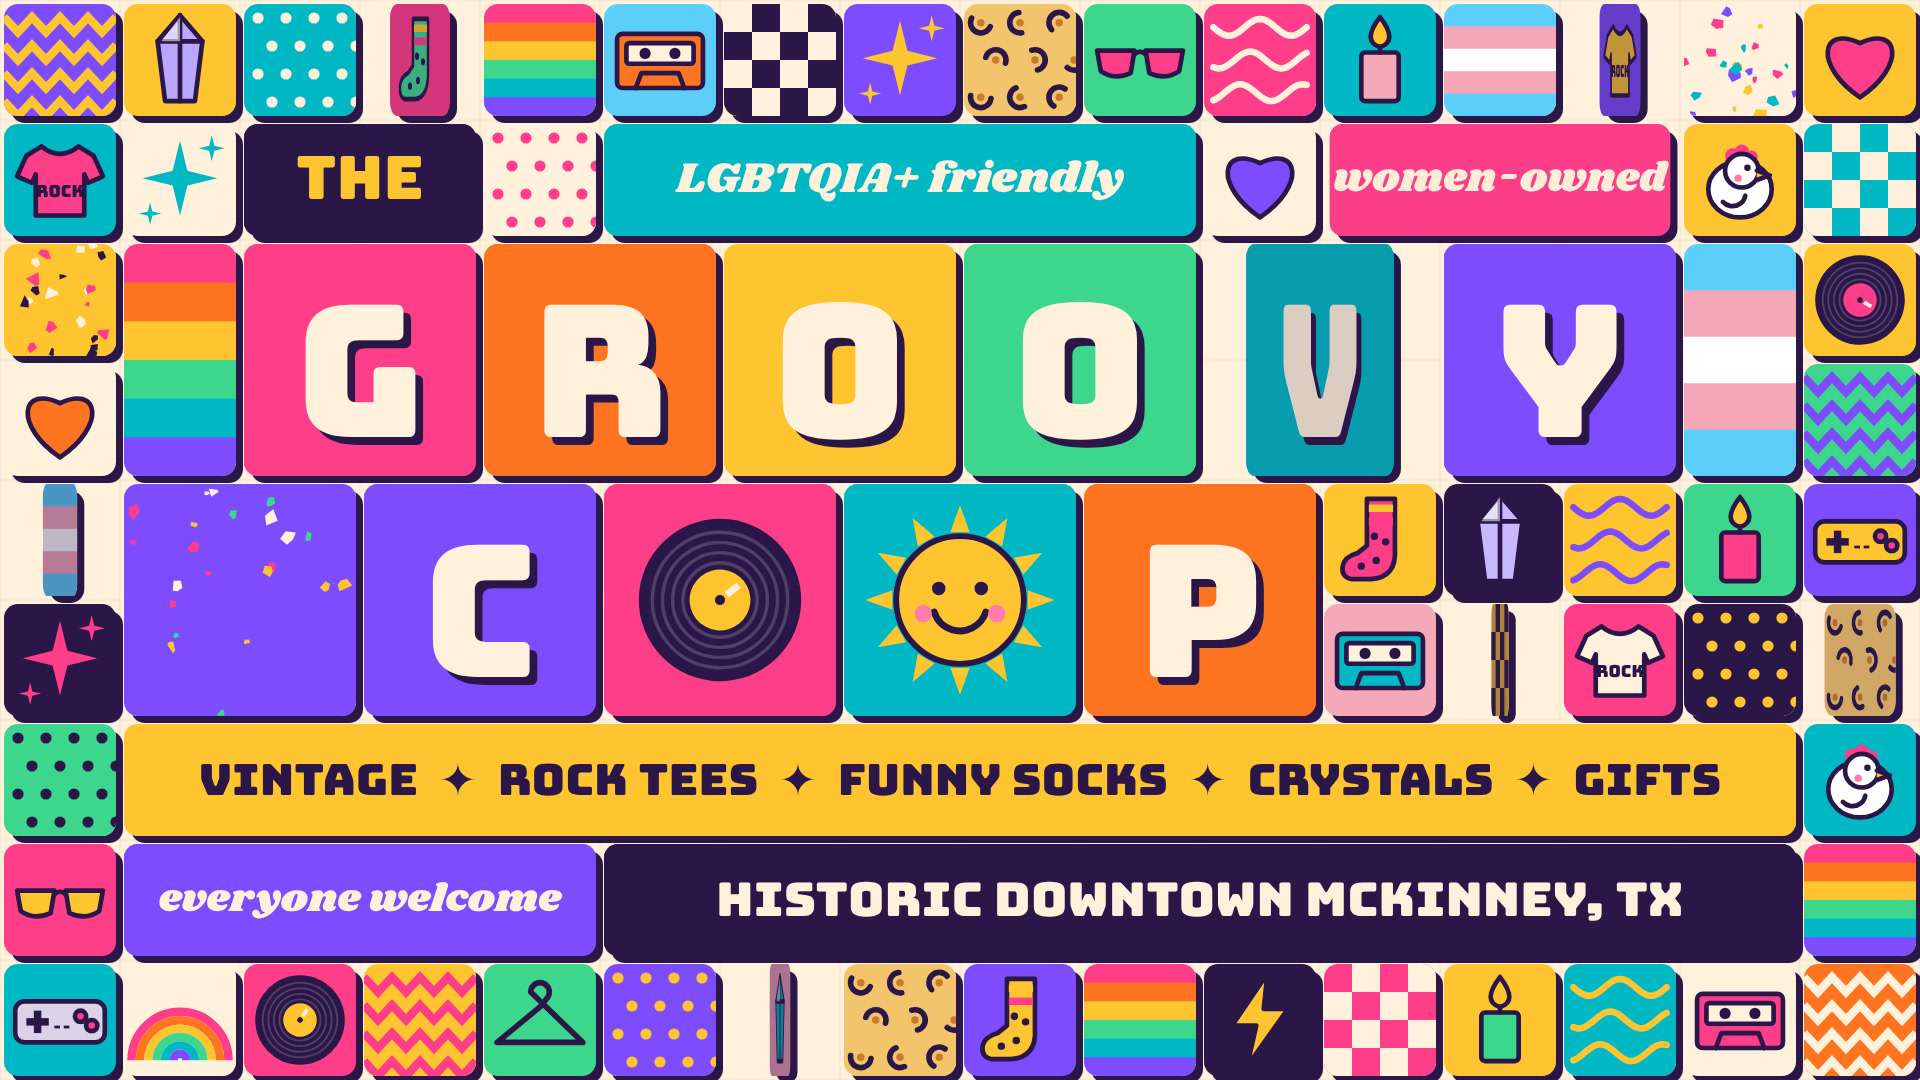
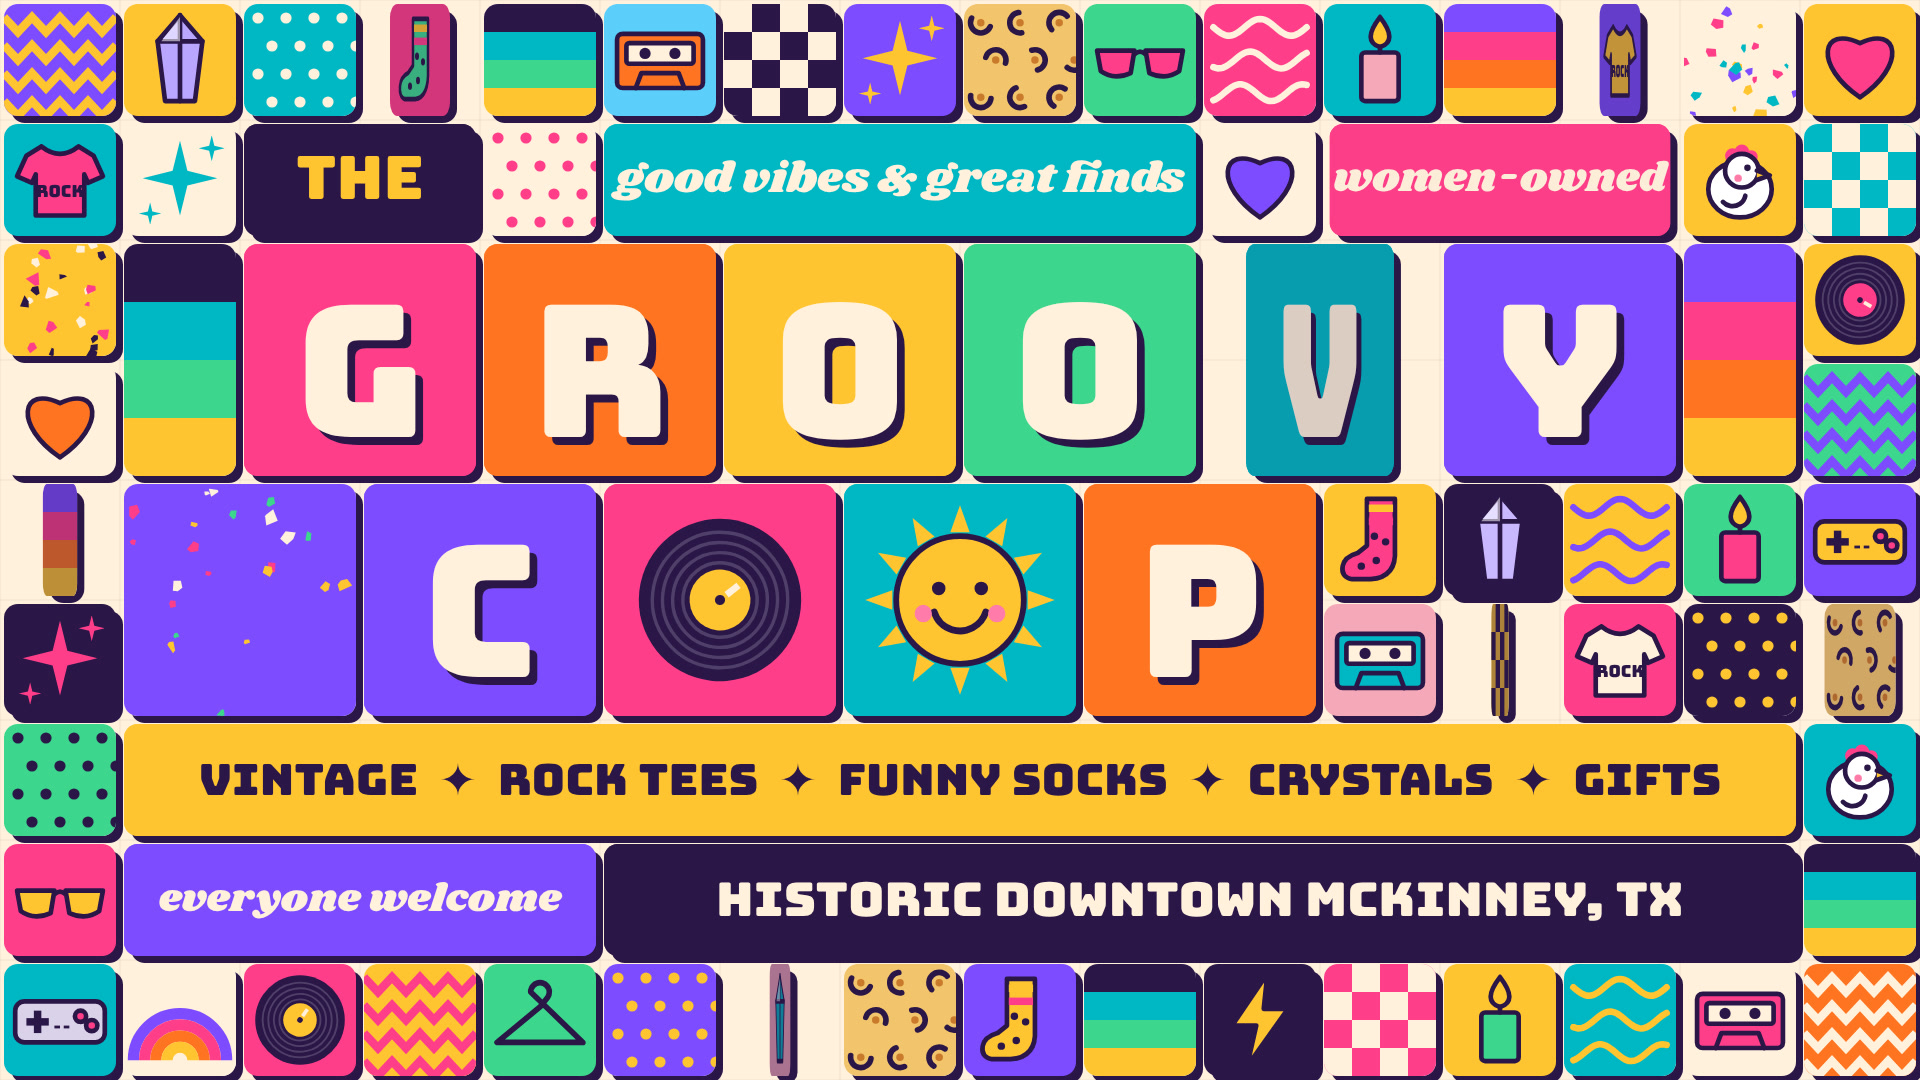
Groovy Coop ad: remove LGBTQ text and flag stripes from style frame
Claude-Session: https://claude.ai/code/session_01BY35vtrRkKpPjZqa6p81BP

diff --git a/groovy-coop-ad/frame.html b/groovy-coop-ad/frame.html
@@ -37,8 +37,8 @@ const PAT = {
     for(let i=0;i<9;i++){ const cx=(i%3)*42+18+(Math.floor(i/3)%2)*16, cy=Math.floor(i/3)*40+20;
       x.strokeStyle=c2; x.lineWidth=6; x.lineCap='round'; x.beginPath(); x.arc(cx,cy,11,0.4+i,3.6+i); x.stroke();
       x.fillStyle='#C97A2B'; x.beginPath(); x.arc(cx,cy,4,0,7); x.fill(); } },
-  rainbow(s,bg){ x.fillStyle=bg; x.fillRect(0,0,s,s); const cs=[P.pink,P.tang,P.sun,P.mint,P.teal,P.violet];
-    cs.forEach((c,i)=>{ x.strokeStyle=c; x.lineWidth=9; x.beginPath(); x.arc(s/2,s*0.86,52-i*9,Math.PI,0); x.stroke(); }); },
+  rainbow(s,bg){ x.fillStyle=bg; x.fillRect(0,0,s,s); const cs=[P.violet,P.pink,P.tang,P.sun];
+    cs.forEach((c,i)=>{ x.strokeStyle=c; x.lineWidth=12; x.beginPath(); x.arc(s/2,s*0.86,50-i*12,Math.PI,0); x.stroke(); }); },
 };
 
 // ---------- icons (drawn centred in an s×s tile) ----------
@@ -122,29 +122,29 @@ async function frame(){
   for(let i=0;i<=16;i++){ x.beginPath(); x.moveTo(i*T,0); x.lineTo(i*T,1080); x.stroke(); }
   for(let j=0;j<=9;j++){ x.beginPath(); x.moveTo(0,j*T); x.lineTo(1920,j*T); x.stroke(); }
 
-  const trans=[P.sky,P.blush,P.white,P.blush,P.sky];
-  const pride=[P.pink,P.tang,P.sun,P.mint,P.teal,P.violet];
+  const sunset=[P.violet,P.pink,P.tang,P.sun];
+  const lagoon=[P.ink,P.teal,P.mint,P.sun];
   // border ring of pattern and product tiles (the shop's shelves, as cards)
   const ring = [
     // row 0
     [0,0,()=>PAT.zig(T,P.violet,P.sun)], [1,0,()=>ICON.crystal(T,'#B9A6FF'),{bg:P.sun}], [2,0,()=>PAT.dots(T,P.teal,P.paper)],
-    [3,0,()=>ICON.sock(T,P.mint),{bg:P.pink,flip:0.32}], [4,0,()=>PAT.stripes(T,pride)], [5,0,()=>ICON.cassette(T,P.tang),{bg:P.sky}],
+    [3,0,()=>ICON.sock(T,P.mint),{bg:P.pink,flip:0.32}], [4,0,()=>PAT.stripes(T,lagoon)], [5,0,()=>ICON.cassette(T,P.tang),{bg:P.sky}],
     [6,0,()=>PAT.check(T,P.paper,P.ink)], [7,0,()=>ICON.spark(T,P.sun),{bg:P.violet}], [8,0,()=>PAT.leopard(T,'#F2C46B',P.ink)],
     [9,0,()=>ICON.shades(T,P.pink),{bg:P.mint}], [10,0,()=>PAT.squiggle(T,P.pink,P.paper)], [11,0,()=>ICON.candle(T,P.blush),{bg:P.teal}],
-    [12,0,()=>PAT.stripes(T,trans)], [13,0,()=>ICON.tee(T,P.sun),{bg:P.violet,flip:0.62}], [14,0,()=>PAT.terrazzo(T,P.paper,[P.pink,P.teal,P.sun,P.violet])],
+    [12,0,()=>PAT.stripes(T,sunset)], [13,0,()=>ICON.tee(T,P.sun),{bg:P.violet,flip:0.62}], [14,0,()=>PAT.terrazzo(T,P.paper,[P.pink,P.teal,P.sun,P.violet])],
     [15,0,()=>ICON.heart(T,P.pink),{bg:P.sun}],
     // row 8
     [0,8,()=>ICON.pad(T,'#D9D2E9'),{bg:P.teal}], [1,8,()=>PAT.rainbow(T,P.paper)], [2,8,()=>ICON.vinyl(T,P.sun,0.6),{bg:P.pink}],
     [3,8,()=>PAT.zig(T,P.sun,P.pink)], [4,8,()=>ICON.hanger(T,P.ink),{bg:P.mint}], [5,8,()=>PAT.dots(T,P.violet,P.sun)],
     [6,8,()=>ICON.crystal(T,P.teal),{bg:P.blush,flip:0.44}], [7,8,()=>PAT.leopard(T,'#F2C46B',P.ink)], [8,8,()=>ICON.sock(T,P.sun),{bg:P.violet}],
-    [9,8,()=>PAT.stripes(T,pride)], [10,8,()=>ICON.bolt(T,P.sun),{bg:P.ink}], [11,8,()=>PAT.check(T,P.pink,P.paper)],
+    [9,8,()=>PAT.stripes(T,lagoon)], [10,8,()=>ICON.bolt(T,P.sun),{bg:P.ink}], [11,8,()=>PAT.check(T,P.pink,P.paper)],
     [12,8,()=>ICON.candle(T,P.mint),{bg:P.sun}], [13,8,()=>PAT.squiggle(T,P.teal,P.sun)], [14,8,()=>ICON.cassette(T,P.pink),{bg:P.paper}],
     [15,8,()=>PAT.zig(T,P.tang,P.paper)],
     // columns 0 and 15
     [0,1,()=>ICON.tee(T,P.pink),{bg:P.teal}], [0,2,()=>PAT.terrazzo(T,P.sun,[P.ink,P.pink,P.paper])], [0,3,()=>ICON.heart(T,P.tang),{bg:P.paper}],
-    [0,4,()=>PAT.stripes(T,trans),{flip:0.4}], [0,5,()=>ICON.spark(T,P.pink),{bg:P.ink}], [0,6,()=>PAT.dots(T,P.mint,P.ink)], [0,7,()=>ICON.shades(T,P.sun),{bg:P.pink}],
+    [0,4,()=>PAT.stripes(T,sunset),{flip:0.4}], [0,5,()=>ICON.spark(T,P.pink),{bg:P.ink}], [0,6,()=>PAT.dots(T,P.mint,P.ink)], [0,7,()=>ICON.shades(T,P.sun),{bg:P.pink}],
     [15,1,()=>PAT.check(T,P.teal,P.paper)], [15,2,()=>ICON.vinyl(T,P.pink,2.1),{bg:P.sun}], [15,3,()=>PAT.zig(T,P.mint,P.violet)],
-    [15,4,()=>ICON.pad(T,P.sun),{bg:P.violet}], [15,5,()=>PAT.leopard(T,'#F2C46B',P.ink),{flip:0.72}], [15,6,()=>ICON.hen(T),{bg:P.teal}], [15,7,()=>PAT.stripes(T,pride)],
+    [15,4,()=>ICON.pad(T,P.sun),{bg:P.violet}], [15,5,()=>PAT.leopard(T,'#F2C46B',P.ink),{flip:0.72}], [15,6,()=>ICON.hen(T),{bg:P.teal}], [15,7,()=>PAT.stripes(T,lagoon)],
   ];
   ring.forEach(([c,r,d,o])=>tile(c,r,1,1,d,o||{}));
 
@@ -154,14 +154,14 @@ async function frame(){
   tile(14,1,1,1,()=>ICON.hen(T),{bg:P.sun});
   tile(4,1,1,1,()=>PAT.dots(T,P.paper,P.pink));
   tile(10,1,1,1,()=>ICON.heart(T,P.violet),{bg:P.paper});
-  bandTile(5,1,5,1,'LGBTQIA+ friendly',P.teal,P.paper,'46px Shrikhand');
+  bandTile(5,1,5,1,'good vibes & great finds',P.teal,P.paper,'46px Shrikhand');
   tile(1,1,1,1,()=>ICON.spark(T,P.teal),{bg:P.paper});
 
   // GROOVY: six 2×2 letter cards, one mid-flip
   const g=[['G',P.pink],['R',P.tang],['O',P.sun],['O',P.mint],['V',P.teal],['Y',P.violet]];
   g.forEach(([ch,bg],i)=> letterTile(2+i*2,2,ch,bg,{flip: i===4?0.28:0}));
-  tile(1,2,1,2,()=>PAT.stripes(T,pride,2*T),{});
-  tile(14,2,1,2,()=>PAT.stripes(T,trans,2*T),{});
+  tile(1,2,1,2,()=>PAT.stripes(T,lagoon,2*T),{});
+  tile(14,2,1,2,()=>PAT.stripes(T,sunset,2*T),{});
 
   // COOP: the first O is a spinning record, the second is a little sun-face
   tile(1,4,2,2,()=>{ PAT.terrazzo(2*T,P.violet,[P.sun,P.pink,P.paper,P.mint]); },{});
